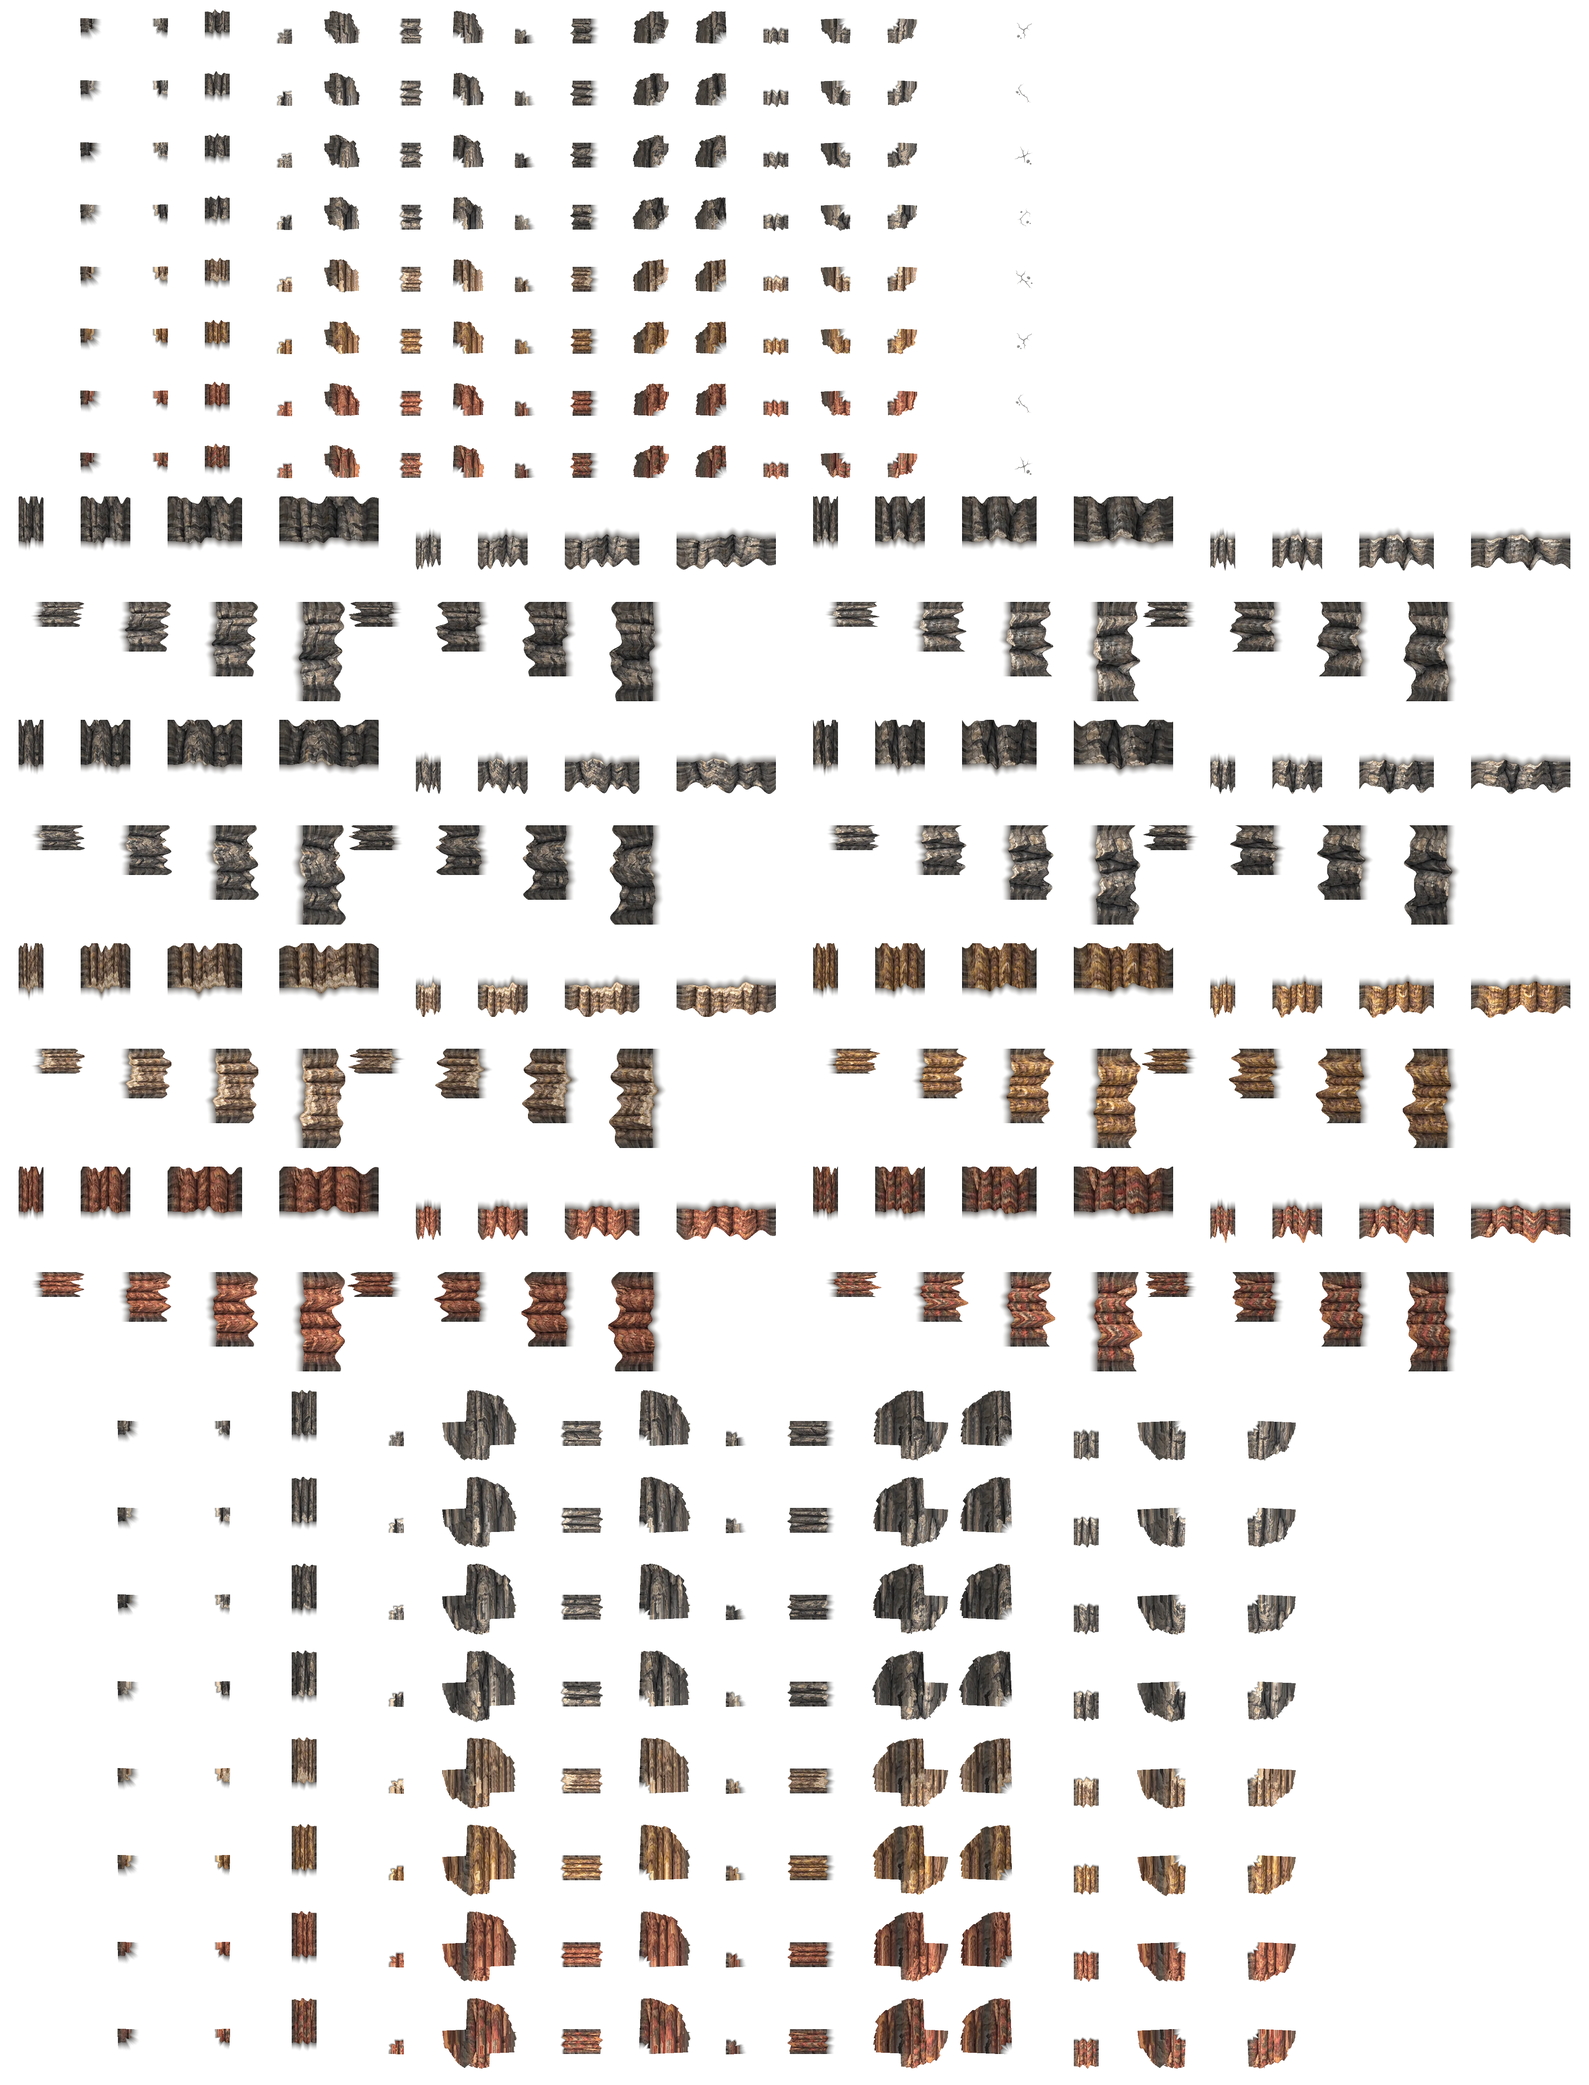
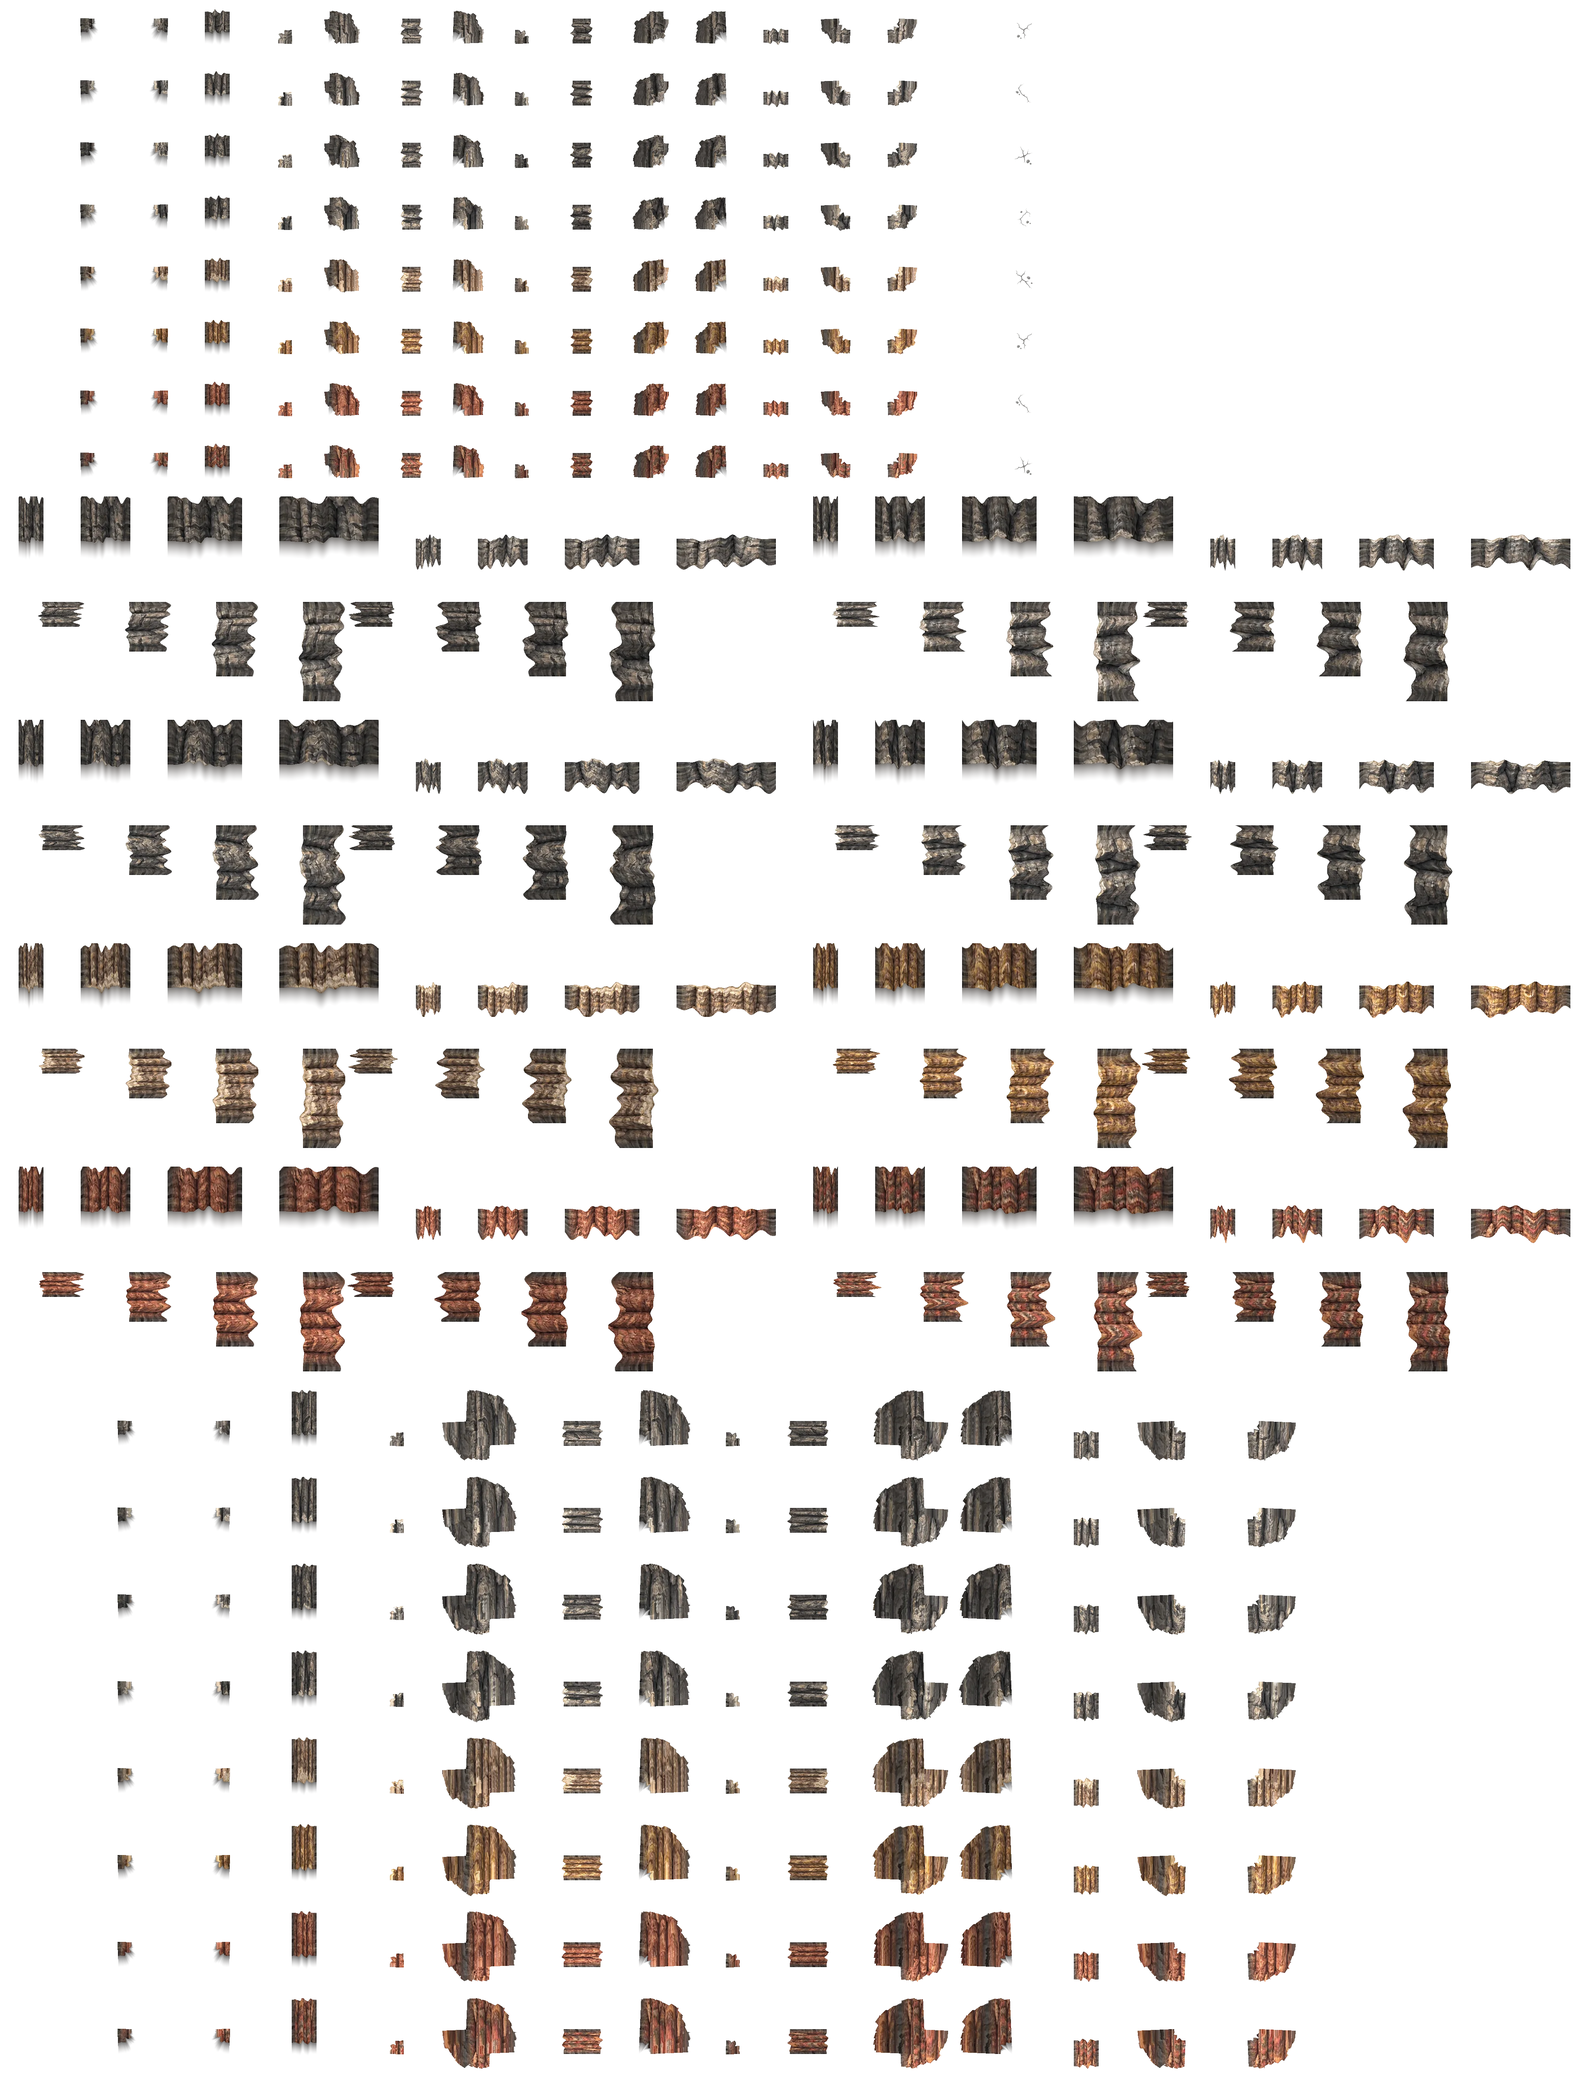
feat(terrain): enlarge plateau crack decals - Render plateau crack details across multiple tiles - Clip enlarged decals to plateau surfaces - Add regression coverage and documentation
fix(cliffs): enlarge south-facing ground shadows
- Increase baked south-facing cliff shadow length
- Remove north-facing cast shadows
- Add atlas regression coverage

diff --git a/src/rendering/organicTerrain.js b/src/rendering/organicTerrain.js
@@ -30,6 +30,8 @@ const CORNERS = [137, 19, 38, 76]
 const ORIENTATIONS = ['top-left', 'top-right', 'bottom-right', 'bottom-left']
 const MACRO_MASKS = new Set([3, 6, 9, 12])
 const TERRAIN_TRANSITION_CACHE_LIMIT = 512
+const PLATEAU_DETAIL_SCALE = 2
+const PLATEAU_DETAIL_FREQUENCY = 10
 const positiveModulo = (value, divisor) => ((value % divisor) + divisor) % divisor
 
 export function cliffVariant(x, y, level = 1) {
@@ -342,6 +344,24 @@ export class OrganicTerrain {
     const right = Math.min(grid[0].length, endX + 4), bottom = Math.min(grid.length, endY + 4)
     const depth = buildCliffDepth(grid, left, top, right + 1, bottom + 1)
     const scale = size / CLIFF_TILE
+    // Sparse, deterministic details keep broad plateau tops readable. Draw
+    // them before the faces so enlarged artwork belongs to the plateau ground
+    // texture and cannot paint over cliff walls.
+    ctx.save()
+    ctx.beginPath()
+    for (let y = top; y < bottom; y++) for (let x = left; x < right; x++) {
+      if (isPlateauTile(depth, x, y)) ctx.rect(x * size - offsetX, y * size - offsetY, size, size)
+    }
+    ctx.clip()
+    for (let y = top; y < bottom; y++) for (let x = left; x < right; x++) {
+      if (!isPlateauTile(depth, x, y) || terrainHash(x, y, 313) % PLATEAU_DETAIL_FREQUENCY !== 0) continue
+      ctx.drawImage(this.cliffs, 16 * CLIFF_CELL, cliffVariant(x, y) * CLIFF_CELL, CLIFF_CELL, CLIFF_CELL,
+        x * size - offsetX - CLIFF_PADDING * scale - (size * (PLATEAU_DETAIL_SCALE - 1)) / 2,
+        y * size - offsetY - CLIFF_PADDING * scale - (size * (PLATEAU_DETAIL_SCALE - 1)) / 2,
+        CLIFF_CELL * scale * PLATEAU_DETAIL_SCALE, CLIFF_CELL * scale * PLATEAU_DETAIL_SCALE)
+    }
+    ctx.restore()
+
     // Faces originate only from plateau topology, while their transparent rim,
     // talus and shadow may cross the tile boundary without rectangular crops.
     // Lowest terrace first, then nested contours. Interiors have no rock sprite.
@@ -380,21 +400,6 @@ export class OrganicTerrain {
           (heightClass === 2 ? CLIFF_TALL_CELL : CLIFF_CELL) * scale)
       }
     }
-    // Top detail is ground material and remains strictly inside rock tiles.
-    ctx.save()
-    ctx.beginPath()
-    for (let y = top; y < bottom; y++) for (let x = left; x < right; x++) {
-      if (isPlateauTile(depth, x, y)) ctx.rect(x * size - offsetX, y * size - offsetY, size, size)
-    }
-    ctx.clip()
-    for (let y = top; y < bottom; y++) for (let x = left; x < right; x++) {
-      if (!isPlateauTile(depth, x, y)) continue
-      ctx.drawImage(this.cliffs, 16 * CLIFF_CELL, cliffVariant(x, y) * CLIFF_CELL, CLIFF_CELL, CLIFF_CELL,
-        x * size - offsetX - CLIFF_PADDING * scale, y * size - offsetY - CLIFF_PADDING * scale,
-        CLIFF_CELL * scale, CLIFF_CELL * scale)
-    }
-    ctx.restore()
-
     // Every non-plateau rock remains an ordinary boulder, regardless of whether
     // it belongs to a short pair, a bend, or a thin cardinal chain.
     for (let y = Math.max(0, top); y < bottom; y++) for (let x = Math.max(0, left); x < right; x++) {

diff --git a/tests/e2e/terracedCliffs.test.js b/tests/e2e/terracedCliffs.test.js
@@ -114,11 +114,22 @@ test('terraced cliff preview and alpha atlas', async({ page }, testInfo) => {
       for (let i = 3; i < pixels.length; i += 4) if (pixels[i] > 240) count++
       return count
     }
+    const shadowStats = rect => {
+      const pixels = ac.getImageData(rect.x, rect.y, rect.width, rect.height).data
+      let count = 0, minY = rect.height
+      for (let y = 0; y < rect.height; y++) for (let x = 0; x < rect.width; x++) {
+        const alpha = pixels[(y * rect.width + x) * 4 + 3]
+        if (alpha > 0 && alpha < 255) { count++; minY = Math.min(minY, y) }
+      }
+      return { count, minY }
+    }
     // Mask 3 is the preferred south-facing wall; the opposite cardinal face
     // must retain comparable material coverage instead of a squeezed lip.
     const southFaceOpaque = opaque(cliffTallRect(3, 0))
     const northFaceOpaque = opaque(cliffTallRect(12, 0))
-    return { width: atlas.width, height: atlas.height, clear, translucent, solid, distinct, macroDistinct, tallDistinct, northFaceOpaque, southFaceOpaque }
+    const southGroundShadow = shadowStats(cliffTallRect(3, 0))
+    const northGroundShadow = shadowStats(cliffTallRect(12, 0))
+    return { width: atlas.width, height: atlas.height, clear, translucent, solid, distinct, macroDistinct, tallDistinct, northFaceOpaque, southFaceOpaque, southGroundShadow, northGroundShadow }
   })
   expect(result.width).toBe(4096)
   expect(result.height).toBe(5376)
@@ -130,6 +141,9 @@ test('terraced cliff preview and alpha atlas', async({ page }, testInfo) => {
   expect(result.solid).toBeGreaterThan(10000)
   expect(result.northFaceOpaque).toBeGreaterThan(result.southFaceOpaque * .4)
   expect(result.northFaceOpaque).toBeLessThan(result.southFaceOpaque * .85)
+  expect(result.southGroundShadow.count).toBeGreaterThan(1500)
+  expect(result.southGroundShadow.minY).toBeGreaterThan(100)
+  expect(result.northGroundShadow.count).toBe(0)
   await page.screenshot({ path: testInfo.outputPath('terraced-cliffs-preview.png') })
 })
 

diff --git a/tests/unit/organicTerrain.test.js b/tests/unit/organicTerrain.test.js
@@ -175,6 +175,28 @@ describe('organic terrain topology', () => {
     const condensedStraightCalls = calls.filter(call => call[0] === terrain.cliffs && call[2] < 1280 && straightCellXs.has(call[1]))
     expect(condensedStraightCalls).toHaveLength(0)
   })
+  it('enlarges plateau crack details while retaining the plateau clip', () => {
+    const grid = Array.from({ length: 7 }, (_, y) => Array.from({ length: 7 }, (_, x) => ({
+      type: x >= 2 && x <= 4 && y >= 2 && y <= 4 ? 'rock' : 'land'
+    })))
+    const terrain = Object.create(OrganicTerrain.prototype)
+    terrain.cliffs = { complete: true, naturalWidth: 4096 }
+    terrain.details = {}
+    const calls = []
+    const ctx = {
+      save: () => {}, restore: () => {}, beginPath: () => {}, rect: () => {}, clip: () => {},
+      drawImage: (...args) => calls.push(args)
+    }
+    terrain.drawCliffs(ctx, grid, 0, 0, 7, 7, 0, 0, 32)
+    const detailCalls = calls.filter(call => call[0] === terrain.cliffs && call[1] === 16 * 160)
+    const plateauDetail = detailCalls[0]
+    expect(plateauDetail).toBeDefined()
+    expect(detailCalls).toHaveLength(1)
+    expect(plateauDetail.slice(-2)).toEqual([160, 160])
+    expect(calls.findIndex(call => call === plateauDetail)).toBeLessThan(
+      calls.findIndex(call => call[0] === terrain.cliffs && call !== plateauDetail)
+    )
+  })
   it('keeps cliff palettes constant inside broad geological regions', () => {
     const variants = new Set()
     for (let y = 20; y < 40; y++) for (let x = 20; x < 40; x++) variants.add(cliffVariant(x, y))

diff --git a/src/version.js b/src/version.js
@@ -2,4 +2,4 @@
 // This file is generated during build time from package.json
 // To update the version, modify package.json or use the bump-version script
 
-export const APP_VERSION = '0.41.5'
+export const APP_VERSION = '0.41.6'

diff --git a/specs/080-terraced-cliff-rendering.md b/specs/080-terraced-cliff-rendering.md
@@ -18,7 +18,7 @@ The runtime selects deterministic variants by coordinate and terrace level. It p
 
 A rock formation must contain a solid 3x3 rock footprint before it can render as a plateau. The qualifying core expands by one tile only through existing rock cells, so the complete minimum footprint owns its perimeter. Every non-plateau formation, including long cardinal chains, diagonal fragments, bends, pairs, and isolated rocks, uses ordinary boulders. This classification is visual and does not alter tile types.
 
-The renderer derives every face from qualifying rock topology while allowing the irregular rim, debris, and alpha shadow fringe to blend onto immediately adjacent low terrain. Plateau ground details remain clipped to qualifying rock-tile rectangles. Every qualifying plateau tile receives one of five deterministic transparent crack-and-stone overlays on its biome ground. Non-qualifying rock tiles receive one of the existing six boulder sprites.
+The renderer derives every face from qualifying rock topology while allowing the irregular rim, debris, and alpha shadow fringe to blend onto immediately adjacent low terrain. Plateau ground details remain clipped to qualifying rock-tile rectangles. One deterministic tile in ten receives one of five transparent crack-and-stone overlays on its biome ground. These details render at twice the tile footprint so fractures span neighboring plateau tiles, while the complete pass remains clipped to the qualifying plateau mask and cannot spill onto lower ground. Details are painted before cliff faces, so they belong only to the plateau top material (such as snow) and cannot cover cliff-wall texture. Non-qualifying rock tiles receive one of the existing six boulder sprites.
 
 Generated rock lines now have a minimum requested thickness of three tiles, with broader lines at higher rock percentages. This makes plateau-capable 3x3 areas a normal output of map generation. Later water, roads, and protected base clearing may carve those formations without leaving stale visual eligibility because classification reads the final map grid during chunk baking.
 
@@ -149,3 +149,13 @@ Diagonal contour faces sample their rock material along the contour path rather 
 ## Transition layer ordering (2026-09-15)
 
 Organic shoreline transition tiles are drawn immediately after water/base terrain and before cliffs, rock artwork, decorations, and tile decals. Buildings and units remain later renderer passes. The same ordering is used when the GPU supplies the base terrain and the CPU renders remaining overlays.
+
+## South-facing cliff shadow follow-up (2026-09-15)
+
+Cliff cast shadows are ground-only artwork. The compiler now omits shadows on the north-facing side, including the opposite north horizontal macro face (mask 12), and omits cast shadows from east/west macro faces. South-facing horizontal cliffs (mask 3) use a 44px source shadow instead of 22px, while curved/diagonal contours scale their shadow length from the positive south-facing normal up to 30px. This enlarges the shadow visible on the ground before south-facing cliffs without changing gameplay geometry, terrain ownership, cache behavior, or runtime draw count.
+
+The atlas must be rebuilt after changing these baked values:
+
+```sh
+node scripts/build-terraced-cliffs.mjs
+```

diff --git a/TODO/Improvements.md b/TODO/Improvements.md
@@ -1,6 +1,9 @@
+- [x] Increase the baked ground shadow length for south-facing cliffs and remove north-facing cliff shadows (2026-09-15).
 - [x] Remove rectangular cropping from outer plateau silhouettes, add 2x2/2x3/2x4 cliff-block assets with more gray-to-canyon color variants, and make generated rock formations prefer compatible broad blocks.
 - [x] Strengthen thin outer plateau faces, render one-sided south/east escarpments on long narrow rock chains, and broaden generated formations to better match the layered reference terrain.
 - [x] Restrict plateau cliffs and shadows to actual rock tiles, require a solid three-tile rock width, use ordinary boulders for narrower chains, add visible crack/stone overlays to plateau tops, and generate sufficiently broad rock formations.
+- [x] Enlarge plateau crack decals to span multiple tiles while clipping them to plateau-owned rock surfaces (2026-09-15).
+- [x] Distribute enlarged plateau crack decals sparsely at one deterministic tile in ten and keep them beneath cliff faces on plateau ground (2026-09-15).
 - [x] Replace repetitive cliff ridges with continuous biome-transparent plateaus, width-dependent terraces, all eight descending directions, seamless joins and five artwork variants per topology; deliver one quality-85 WebP sprite sheet and verify visual seams and live performance.
 - [x] Friendly-unit click action hierarchy (2026-07-27): when selected units click a friendly unit, apply exactly one eligible action in strict `board/load into -> request service -> guard` order, and select the clicked unit only when none of those interactions can apply.
 - [x] Remove terrain chunk monitoring from the FPS/performance overlay so the widget no longer shows the verbose `Chunks:` line.

diff --git a/prompt-history/20260915T021846Z_south-cliff-shadows.md b/prompt-history/20260915T021846Z_south-cliff-shadows.md
@@ -1,0 +1,13 @@
+# 2026-09-15T02:18:46Z — South cliff shadows
+
+Codex. The exact model version, reasoning level, token counts, and total task duration were not available.
+
+## User request
+
+Increase the shadow length/size on the grounds before cliffs facing south. Ensure there are no north facing shadows for cliffs.
+
+## Implemented outcome
+
+- Increased the south-facing horizontal cliff ground shadow from 22px to 44px in the baked atlas source geometry.
+- Removed north-facing macro shadows and restricted curved/diagonal cast shadows to south-facing normals.
+- Regenerated the quality-85 WebP cliff atlas and updated the terraced-cliff specification.

diff --git a/prompt-history/20260915T022000Z_sparse-plateau-cracks.md b/prompt-history/20260915T022000Z_sparse-plateau-cracks.md
@@ -1,0 +1,8 @@
+2026-09-15T02:20:00Z
+
+LLM: exact model name/version and reasoning level unavailable in this runtime; harness: Codex desktop.
+Token usage and total task duration: unavailable.
+
+# Prompt
+
+ensure the cracks are not totally covering the plateau tops but are distributed so only 1 in 10 tiles is covered by crack decal. Also ensure the crack decal does not span over the cliff texture but only over the top plateau texture like "snow" texture.

diff --git a/prompt-history/20260915T021811Z_enlarge-plateau-cracks.md b/prompt-history/20260915T021811Z_enlarge-plateau-cracks.md
@@ -1,0 +1,8 @@
+2026-09-15T02:18:11Z
+
+LLM: exact model name/version and reasoning level unavailable in this runtime; harness: Codex desktop.
+Token usage and total task duration: unavailable.
+
+# Prompt
+
+render the cracks decals on top of plateaus much larger to span over multiple tiles but ensure they do not spill over to the ground bleow the plateaus
